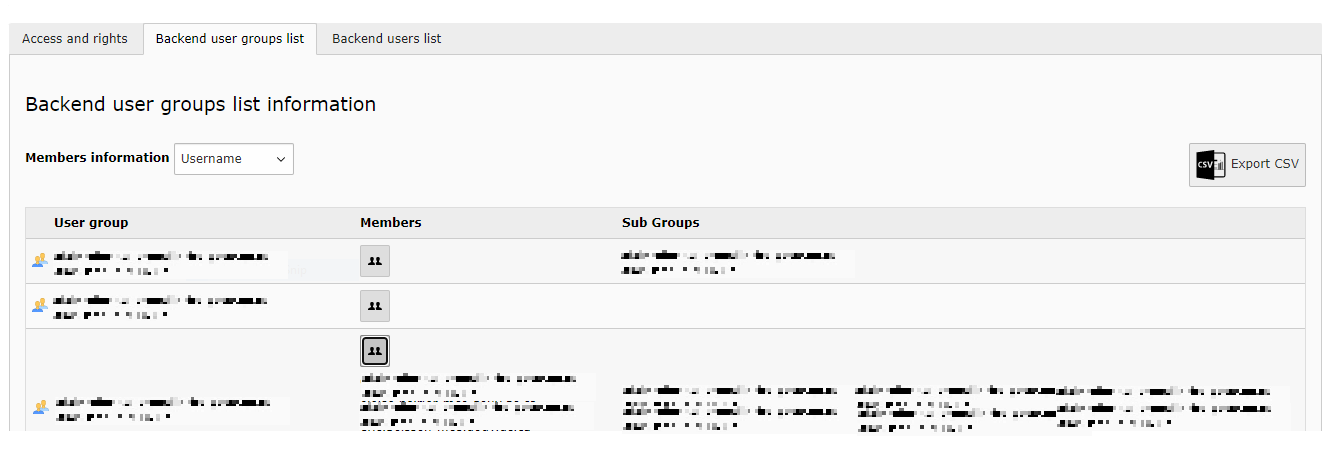
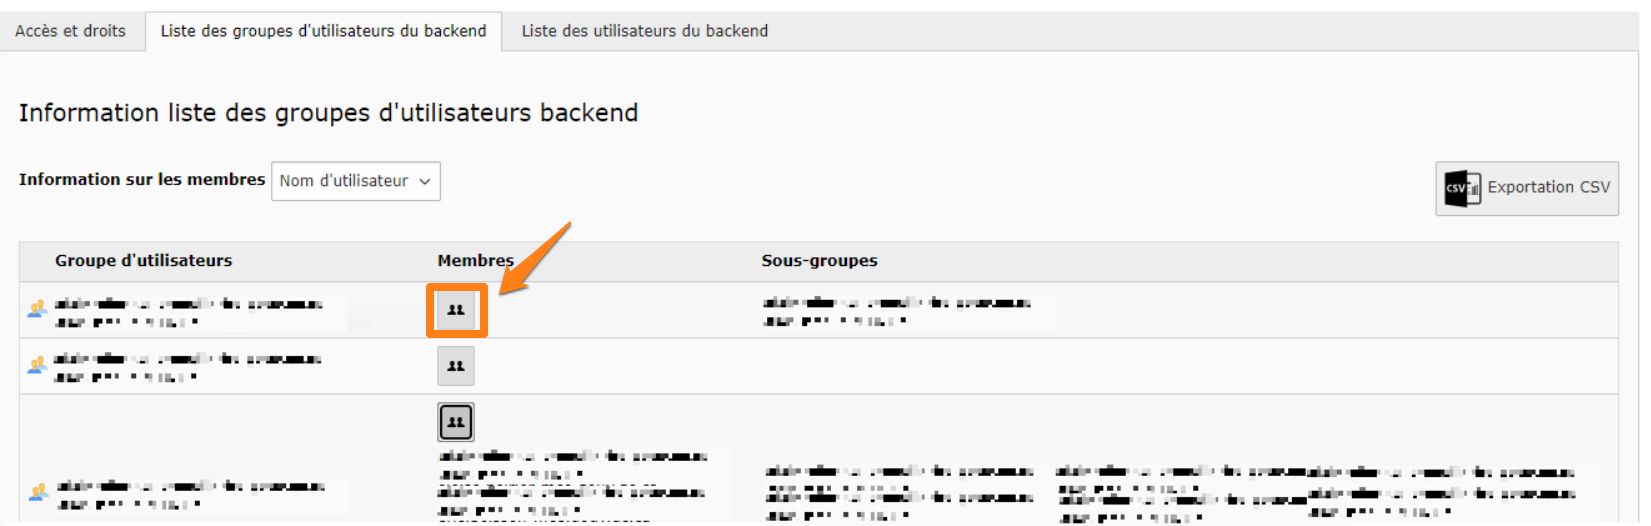
modify README, CHANGELOG content

diff --git a/README.md b/README.md
@@ -7,7 +7,9 @@ This extension add a new item to the Info Module in the BE with those features:
 
 1. Shows BE rights for the pages (like in the Access Module) but for editors (as read-only)
 2. Show a list of all BE Users (except if it begins with a "_" like "\_cli\_") with a filter and export as CSV(hidden by default)
-3. Show a list of all BE User Groups with a filter and export to CSV (hidden by default), this tab also show the list of members for each group int the list.
+3. Show a list of all BE User Groups with a filter and export to CSV (hidden by default),with an option that will return the list of members that are contained in these groups.
+
+![Main functionnality](Documentation/Images/show-groups-members.jpg)
 
 Main function is to show the actual BE right to non-admins:
 ![Main functionnality](Documentation/Images/access-and-rights.jpg)
@@ -79,7 +81,9 @@ L'extension ajoute un nouvel item de menu au module Info en BE avec les fonction
 
 1. Affichage des droits BE des pages (comme dans le module Access) mais pour les édimestres (lecture seulement)
 2. Affichage des Utilisateurs BE (sauf si le nom débute par "_" comme "\_cli\_) avec filtre et exportation en CSV (masqué par défaut)
-3. Affichage des Groupes BE avec filtre et exportation en CSV (masqué par défaut), cet onglet aussi permet d'afficher la liste des membres de chaque groupe.
+3. Affichage des Groupes BE avec filtre et exportation en CSV (masqué par défaut), avec l'option qui permet d'afficher la liste des membres de groupe selectionné.
+
+![Main functionnality](Documentation/Images/show-groups-members.jpg)
 
 L'extension offre plusieurs options pour masquer les colonnes ou les fonctionnalités désirées.
 

diff --git a/CHANGELOG.md b/CHANGELOG.md
@@ -1,26 +1,3 @@
 # Info Rights
 ## Change log  v1.1.0
-
-*La [version française](#documentation-info-rights) de la documentation suit le texte anglais*
-### Add Members Column in Backend users group tab
-By adding this column the user can now see for each group in this tab, the current members of a selected group by clicking on the members icon,
-this functionality will make the user able to show the username, the email or the real name of the members.
-this column is displayed by default in the Backend.
-to hide this column, the following tsconfig option is used.
-
-    mod.qcinforights.showMembersColumn = 0
-
-![Main functionality](Documentation/Images/show-groups-members.jpg)
-
------------
-[Version française]
-## Documentation Info Rights
-### Ajout de la colonne Membres dans l’onglet Backend Users Group
-En ajoutant cette colonne, l’utilisateur peut maintenant voir pour chaque groupe dans cet onglet, les membres actuels du groupe sélectionné en cliquant sur l'icon des membres,
-cette fonctionnalité permettra à l’utilisateur d’afficher le nom d’utilisateur, le courriel ou le nom réel des membres.
-cette colonne est affichée par défaut dans le Backend.
-pour masquer cette colonne, l'option tsconfig suivante est utilisée :
-
-    mod.qcinforights.showMembersColumn = 0
-
-![Main functionality](Documentation/Images/show-members-groups-fr.jpg)
+2022-01-13 [Feature] It is now possible to get the members of groups when checking the pages rights
